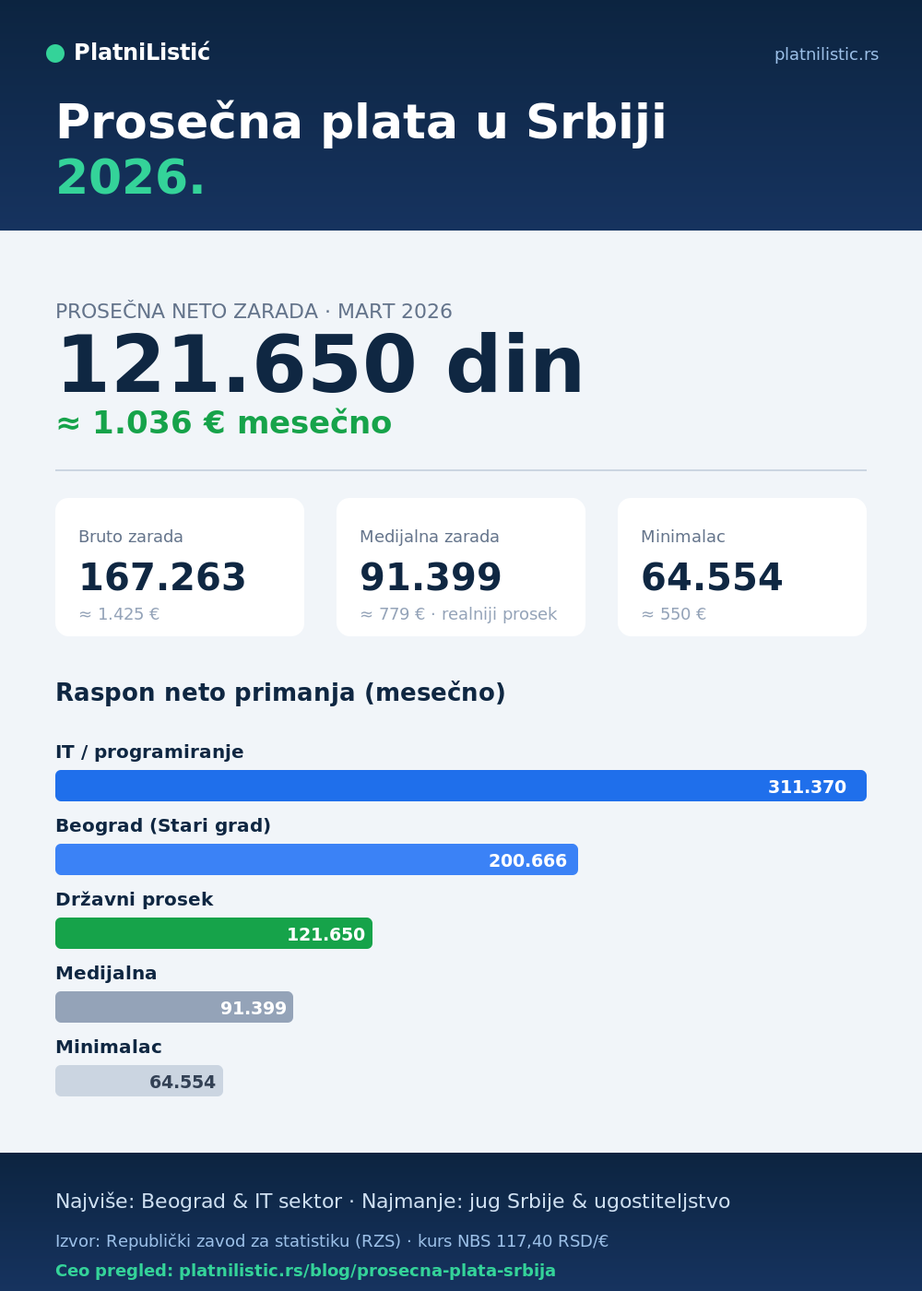
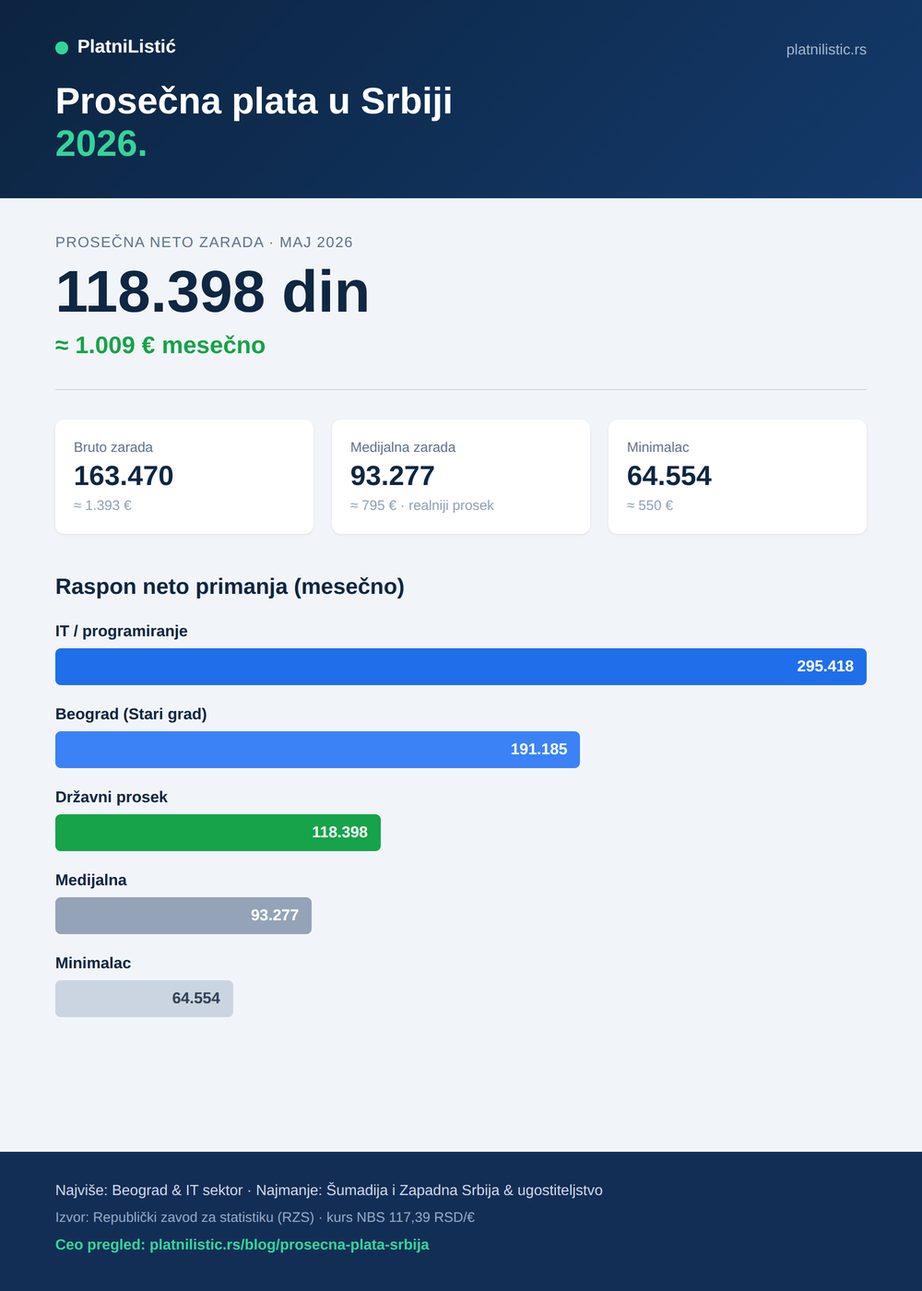
data: refresh RZS average salary to May 2026 (neto 118.398)
RZS saopštenje objavljeno 24.7.2026: neto 121.805→118.398, bruto
168.008→163.470, medijalna 94.585→93.277, kurs 117.40→117.39. Add
`objavljeno` field (used in ProsecnaZaradaPage static copy) and cascade
the numbers through prosecna-plata, otpremnina, jubilarna and the
regenerated prosecna-plata media assets. Post `updated` dates → 4 avgust.

Changed region(s): [[0.0, 0.0307, 1.0, 0.86], [0.062, 0.9214, 0.775, 1.0], [0.713, 0.0, 1.0, 0.0921]]

diff --git a/src/posts/prosecna-plata-srbija.js b/src/posts/prosecna-plata-srbija.js
@@ -1,28 +1,28 @@
 // Body + FAQ for "prosecna-plata-srbija". Split out of posts.js so a reader
 // downloads only the article they open — see loadPostBody() in Blog.jsx.
 export const body = `
-![Prosečna plata u Srbiji, mart 2026 — neto 121.650 dinara (≈1.036 €), bruto 167.263, medijalna (februar) 91.399, IT 311.370, minimalac 64.554. Najnoviji podatak za april 2026. dat je u tekstu.](/media/prosecna-plata-2026.png)
+![Prosečna plata u Srbiji, maj 2026 — neto 118.398 dinara (≈1.009 €), bruto 163.470, medijalna 93.277, IT 295.418, minimalac 64.554.](/media/prosecna-plata-2026.png)
 
-> **Provereno i ažurirano: 8. jul 2026.** Iznosi su usklađeni sa zvaničnim saopštenjima Republičkog zavoda za statistiku (RZS). Statistika se objavljuje oko 55 dana po isteku meseca, pa je najsvežiji zvaničan podatak za april 2026 (objavljen 25. juna). Konverzija u evre po srednjem kursu NBS (1 € = 117,40 din).
+> **Provereno i ažurirano: 4. avgust 2026.** Iznosi su usklađeni sa zvaničnim saopštenjima Republičkog zavoda za statistiku (RZS). Statistika se objavljuje oko 55 dana po isteku meseca, pa je najsvežiji zvaničan podatak za maj 2026 (objavljen 24. jula). Konverzija u evre po srednjem kursu NBS (1 € = 117,39 din).
 
-Prosečna plata u Srbiji iznosi **121.805 dinara neto (≈ 1.038 €)**, odnosno **168.008 dinara bruto** — najnoviji zvaničan podatak RZS-a, za april 2026. Medijalna neto zarada je **94.585 dinara**: polovina zaposlenih prima manje od tog iznosa, pa medijalna plata bolje opisuje „tipičnu" zaradu od proseka. U nastavku: pregled po mesecima, sektorima i gradovima, u dinarima i evrima.
+Prosečna plata u Srbiji iznosi **118.398 dinara neto (≈ 1.009 €)**, odnosno **163.470 dinara bruto** — najnoviji zvaničan podatak RZS-a, za maj 2026. Medijalna neto zarada je **93.277 dinara**: polovina zaposlenih prima manje od tog iznosa, pa medijalna plata bolje opisuje „tipičnu" zaradu od proseka. Neto zarada je u odnosu na april niža za 3.407 din — uobičajena mesečna varijacija, ne trend. U nastavku: pregled po mesecima, sektorima i gradovima, u dinarima i evrima.
 
 > **Napomena:** Ovaj tekst je informativnog karaktera. Zvaničan izvor svih iznosa je Republički zavod za statistiku; podaci se menjaju svakog meseca.
 
-## Ključne brojke (april 2026, RZS)
+## Ključne brojke (maj 2026, RZS)
 
-- **Prosečna neto zarada:** 121.805 din ≈ 1.038 €
-- **Prosečna bruto zarada:** 168.008 din ≈ 1.431 €
-- **Medijalna neto zarada:** 94.585 din ≈ 806 €
-- **Najviše — IT sektor:** ~311.370 din ≈ 2.652 €
-- **Najviše — Beograd (prosek):** 144.028 din ≈ 1.227 €
-- **Najmanje — jug Srbije:** ~90.705 din ≈ 772 €
+- **Prosečna neto zarada:** 118.398 din ≈ 1.009 €
+- **Prosečna bruto zarada:** 163.470 din ≈ 1.393 €
+- **Medijalna neto zarada:** 93.277 din ≈ 795 €
+- **Najviše — IT sektor:** ~295.418 din ≈ 2.517 €
+- **Najviše — Beograd (prosek):** 145.186 din ≈ 1.237 €
+- **Najmanje — opština Bojnik:** 81.731 din ≈ 696 € (regionalno najniže: Šumadija i Zapadna Srbija, 101.940 din)
 
 ## Prosečna plata po mesecima 2026
 
 Prosečna zarada varira iz meseca u mesec, zavisno od isplata bonusa, broja radnih dana i sezonskih kretanja. Trend je tokom poslednjih meseci jasno uzlazan:
 
-![Kretanje prosečne neto zarade u Srbiji od avgusta 2025. (105.590 din) do marta 2026. (121.650 din).](/media/prosecna-neto-zarada-kretanje-2026.svg)
+![Kretanje prosečne neto zarade u Srbiji po mesecima 2026 — januar 118.429, februar 116.127, mart 121.650, april 121.805, maj 118.398 din.](/media/prosecna-neto-zarada-kretanje-2026.svg)
 
 | Mesec 2026. | Bruto zarada | Neto zarada | Medijalna neto |
 |---|---|---|---|
@@ -30,61 +30,65 @@ Prosečna zarada varira iz meseca u mesec, zavisno od isplata bonusa, broja radn
 | Februar | 160.067 din | 116.127 din | 91.399 din |
 | Mart | 167.263 din | 121.650 din | — |
 | April | 168.008 din | 121.805 din | 94.585 din |
+| Maj | 163.470 din | 118.398 din | 93.277 din |
 
-U periodu januar–april 2026, u odnosu na isti period prethodne godine, prosečna neto zarada nominalno je veća za **11,6%**, a realno (nakon inflacije) za **8,6%** — plate i dalje rastu brže od cena. Kompletna [tabela prosečnih zarada po mesecima](/prosecna-zarada) sa zvaničnim podacima RZS-a dostupna je na posebnoj stranici. Razliku između bruto i neto iznosa objašnjavamo u vodiču [bruto-neto razlika](/blog/bruto-neto-razlika), a sastav doprinosa u tekstu [doprinosi u Srbiji](/blog/doprinosi-srbija).
+U periodu januar–maj 2026, u odnosu na isti period prethodne godine, prosečna neto zarada nominalno je veća za **11,3%**, a realno (nakon inflacije) za **8,2%** — plate i dalje rastu brže od cena. Kompletna [tabela prosečnih zarada po mesecima](/prosecna-zarada) sa zvaničnim podacima RZS-a dostupna je na posebnoj stranici. Razliku između bruto i neto iznosa objašnjavamo u vodiču [bruto-neto razlika](/blog/bruto-neto-razlika), a sastav doprinosa u tekstu [doprinosi u Srbiji](/blog/doprinosi-srbija).
 
 ## Medijalna plata u Srbiji 2026
 
-**Medijalna neto plata u Srbiji za april 2026. iznosi 94.585 din (≈ 806 €)** — polovina zaposlenih zarađuje manje od tog iznosa, a polovina više. Prosečnu platu „naviše vuku" visoke zarade malog broja ljudi (rukovodioci, IT), pa **medijalna zarada** realnije opisuje tipičnu platu: iznos koji deli zaposlene na dve jednake polovine. Drugim rečima, tipičan zaposleni u Srbiji zarađuje oko **27.000 din manje** od „prosečne" plate od 121.805 din.
+**Medijalna neto plata u Srbiji za maj 2026. iznosi 93.277 din (≈ 795 €)** — polovina zaposlenih zarađuje manje od tog iznosa, a polovina više. Prosečnu platu „naviše vuku" visoke zarade malog broja ljudi (rukovodioci, IT), pa **medijalna zarada** realnije opisuje tipičnu platu: iznos koji deli zaposlene na dve jednake polovine. Drugim rečima, tipičan zaposleni u Srbiji zarađuje oko **25.100 din manje** od „prosečne" plate od 118.398 din.
 
 ## Prosečna plata u Beogradu 2026
 
-**Prosečna neto plata u Beogradu za 2026. iznosi oko 144.028 din (≈ 1.227 €)** — osetno iznad državnog proseka. U najbogatijim beogradskim opštinama (Stari grad 200.666 din, Vračar 192.878 din, Savski venac, Novi Beograd) prelazi 190.000 din neto. Detaljan pregled po opštinama i regionima je u tabeli niže.
+**Prosečna neto plata u Beogradu za maj 2026. iznosi oko 145.186 din (≈ 1.237 €)** — osetno iznad državnog proseka. Najbogatija opština je Stari grad sa 191.185 din neto; deset beogradskih opština premašuje državni prosek (uključujući Voždovac, Vračar i Zvezdaru). Detaljan pregled po opštinama i regionima je u tabeli niže.
 
 ## Prosečna plata po sektorima
 
 Razlike među granama su ogromne — najplaćeniji i najmanje plaćeni sektor deli više od 170.000 din mesečno:
 
-![Raspon neto primanja u Srbiji — IT 311.370, Beograd Stari grad 200.666, državni prosek (mart 2026) 121.650, medijalna (februar 2026) 91.399, minimalac 64.554 din.](/media/raspon-neto-primanja-srbija-2026.svg)
+![Raspon neto primanja u Srbiji — IT 295.418, Beograd Stari grad 191.185, državni prosek (maj 2026) 118.398, medijalna 93.277, minimalac 64.554 din.](/media/raspon-neto-primanja-srbija-2026.svg)
 
-| Sektor | Prosečna neto zarada (2026.) |
+| Sektor | Prosečna neto zarada (maj 2026.) |
 |---|---|
-| Računarsko programiranje i IT usluge | ~311.370 din (najviša) |
+| Računarsko programiranje i IT usluge | ~295.418 din (najviša) |
+| Vazdušni saobraćaj | ~265.257 din |
+| Naučnoistraživački rad | ~220.046 din |
 | Finansije i osiguranje | iznad proseka |
-| Snabdevanje energijom (struja, gas) | iznad proseka |
 | Rudarstvo | ~116.000 din |
 | Trgovina | oko proseka / ispod |
-| Ugostiteljstvo (hoteli i restorani) | najniža (3× manje od IT-a) |
+| Ugostiteljstvo (hoteli i restorani) | najniža (2,5× manje od IT-a) |
 
-Najviše zarađuje **informaciono-komunikacioni sektor** — prosečna neto plata u računarskom programiranju premašuje 311.000 din, više od tri puta iznad državnog proseka. Na dnu su ugostiteljstvo, tekstilna industrija i delovi trgovine.
+Najviše zarađuje **informaciono-komunikacioni sektor** — prosečna neto plata u računarskom programiranju iznosi 295.418 din, više od 2,5 puta iznad državnog proseka. Odmah iza su vazdušni saobraćaj i naučnoistraživački rad. Na dnu su ugostiteljstvo, tekstilna industrija i delovi trgovine.
 
 ## Prosečna plata po gradovima i regionima
 
 Geografske razlike su jednako velike:
 
-![Prosečna neto plata po gradovima 2026 — Stari grad 200.666, Vračar 192.878, Beogradski region 144.028, državni prosek (mart 2026) 121.650, Šumadija i Zapadna Srbija 90.705 din.](/media/prosecna-plata-po-gradovima-2026.svg)
+![Prosečna neto plata po gradovima, maj 2026 — Stari grad 191.185, Beogradski region 145.186, državni prosek 118.398, Vojvodina 111.671, Šumadija i Zapadna Srbija 101.940 din.](/media/prosecna-plata-po-gradovima-2026.svg)
 
-| Region / opština | Bruto zarada | Neto zarada |
-|---|---|---|
-| Stari grad (Beograd) | 271.497 din | 200.666 din |
-| Vračar (Beograd) | 262.492 din | 192.878 din |
-| Beogradski region | 198.080 din | 144.028 din |
-| Novi Sad (Južnobačka) | 181.542 din | — |
-| Šumadija i Zapadna Srbija | — | ~90.705 din (najniža) |
+| Region / opština | Neto zarada (maj 2026.) |
+|---|---|
+| Stari grad (Beograd) | 191.185 din |
+| Beogradski region | 145.186 din |
+| Državni prosek | 118.398 din |
+| Vojvodina | 111.671 din |
+| Južna i istočna Srbija | 104.764 din |
+| Šumadija i Zapadna Srbija | 101.940 din (regionalno najniža) |
+| Opština Bojnik | 81.731 din (opštinski najniža u zemlji) |
 
-**Beograd ubedljivo prednjači** — prosečna neto plata je oko 144.000 din, a u najbogatijim opštinama (Stari grad, Vračar, Savski venac, Novi Beograd) prelazi 190.000 din neto. Najniže zarade su na jugu zemlje (Jablanička, Pčinjska i Toplička oblast).
+**Beograd ubedljivo prednjači** — prosečna neto plata je oko 145.000 din, a najbogatija opština, Stari grad, ima 191.185 din neto. Regionalno su najniže zarade u Šumadiji i Zapadnoj Srbiji, ali pojedinačno najniže plaćena opština u zemlji je Bojnik (81.731 din), uz Preševo i Vlasotinac koji takođe ne prelaze 85.000 din.
 
 ## Prosečna plata u evrima
 
-Po srednjem kursu NBS od **117,40 din za 1 €**, ključni iznosi su:
+Po srednjem kursu NBS od **117,39 din za 1 €**, ključni iznosi su:
 
 | Pokazatelj (neto, mesečno) | Dinari | Evri |
 |---|---|---|
-| Prosečna bruto zarada | 168.008 | ≈ 1.431 € |
-| Prosečna neto zarada | 121.805 | ≈ 1.038 € |
-| Medijalna neto zarada | 94.585 | ≈ 806 € |
-| Beograd (prosek, neto) | 144.028 | ≈ 1.227 € |
-| IT sektor (neto) | 311.370 | ≈ 2.652 € |
+| Prosečna bruto zarada | 163.470 | ≈ 1.393 € |
+| Prosečna neto zarada | 118.398 | ≈ 1.009 € |
+| Medijalna neto zarada | 93.277 | ≈ 795 € |
+| Beograd (prosek, neto) | 145.186 | ≈ 1.237 € |
+| IT sektor (neto) | 295.418 | ≈ 2.517 € |
 | Minimalac (neto) | 64.554 | ≈ 550 € |
 
 Kurs dinara prema evru kreće se u uskom rasponu (oko 117 din/€), pa se iznosi u evrima menjaju malo iz meseca u mesec.
@@ -103,7 +107,7 @@ Neto zarada prati isti trend i čini približno 72% bruto iznosa.
 
 ## Prosečna plata vs. minimalac i penzija
 
-Minimalna zarada u 2026. iznosi 371 din neto po radnom času, odnosno oko **64.554 din (≈ 550 €)** mesečno za prosečan fond sati — detaljnije u vodiču [minimalna zarada 2026](/minimalna-zarada-2026). Minimalac je tako oko **68% medijalne** i tek oko **53% prosečne** neto zarade. Raspon primanja je izuzetno širok — od zakonskog minimuma do IT plata pet puta većih.
+Minimalna zarada u 2026. iznosi 371 din neto po radnom času, odnosno oko **64.554 din (≈ 550 €)** mesečno za prosečan fond sati — detaljnije u vodiču [minimalna zarada 2026](/minimalna-zarada-2026). Minimalac je tako oko **69% medijalne** i tek oko **55% prosečne** neto zarade. Raspon primanja je izuzetno širok — od zakonskog minimuma do IT plata skoro pet puta većih.
 
 ## Kako se prosečna plata obračunava
 
@@ -113,24 +117,23 @@ RZS prosečnu zaradu računa na osnovu poreske prijave PPP-PD koju podnose svi p
 
 Cela slika prosečne plate u Srbiji 2026. na jednom mestu — slobodno sačuvajte ili podelite infografiku (uz link ka izvoru):
 
-![Infografika: prosečna plata u Srbiji, mart 2026 — neto 121.650 din (≈1.036 €), bruto 167.263, medijalna (februar) 91.399, minimalac 64.554 i raspon neto primanja od minimalca do IT sektora. Izvor: RZS.](/media/infografik-prosecna-plata-2026.png)
+![Infografika: prosečna plata u Srbiji, maj 2026 — neto 118.398 din (≈1.009 €), bruto 163.470, medijalna 93.277, minimalac 64.554 i raspon neto primanja od minimalca do IT sektora. Izvor: RZS.](/media/infografik-prosecna-plata-2026.png)
 
 ## Izvori i korisni linkovi
 
 - [RZS — Zarade](https://www.stat.gov.rs/sr-latn/oblasti/trziste-rada/zarade)
-- [RZS — Saopštenje o zaradama (januar 2026)](https://www.stat.gov.rs/sr-latn/vesti/statisticalrelease/?p=17829)
 - [Prosečna mesečna zarada (Paragraf)](https://www.paragraf.rs/statistika/prosecna_mesecna_zarada_po_zaposlenom_u_republici_srbiji.html)
 - [Narodna banka Srbije — kursna lista](https://www.nbs.rs/sr/scripts/kursnalista/)
     `;
 
 export const faq = [
-  { q: "Kolika je prosečna plata u Srbiji 2026?", a: "Prosečna neto plata za april 2026. iznosi 121.805 dinara (oko 1.038 evra), a bruto 168.008 dinara, prema podacima RZS-a. Tokom prvih meseci 2026. neto prosek se kretao između 116.000 i 122.000 dinara." },
-  { q: "Kolika je prosečna plata u Srbiji u evrima?", a: "Po srednjem kursu NBS (117,40 dinara za 1 evro), prosečna neto plata od 121.805 dinara iznosi približno 1.038 evra mesečno, a bruto zarada oko 1.431 evro." },
-  { q: "Kolika je prosečna bruto zarada 2026?", a: "Prosečna bruto zarada u Srbiji za april 2026. iznosi 168.008 dinara (oko 1.431 evro), prema RZS-u. Bruto zarada je iznos pre poreza i doprinosa; neto (na ruke) je 121.805 dinara." },
-  { q: "Kolika je medijalna plata u Srbiji?", a: "Medijalna neto zarada za april 2026. iznosi 94.585 dinara (oko 806 evra). To znači da polovina zaposlenih zarađuje manje od tog iznosa, pa je medijalna plata realnija slika od proseka." },
-  { q: "Kolika je prosečna plata u Beogradu 2026?", a: "Prosečna neto plata u Beogradu za 2026. iznosi oko 144.028 dinara (≈ 1.227 evra) — iznad državnog proseka. U opštinama Stari grad i Vračar prelazi 190.000 dinara neto." },
-  { q: "Da li većina ljudi zarađuje prosečnu platu?", a: "Ne. Većina zaposlenih zarađuje ispod proseka. Tipičnu zaradu bolje opisuje medijalna plata (oko 94.500 dinara) nego prosek (oko 122.000 dinara), jer prosek podižu visoke plate u IT-u i menadžmentu." },
-  { q: "Koji sektor ima najveću platu u Srbiji?", a: "Najviše zarađuje IT sektor — prosečna neto plata u računarskom programiranju premašuje 311.000 dinara, više od tri puta iznad državnog proseka. Najmanje se zarađuje u ugostiteljstvu." },
-  { q: "Koji grad ima najveću prosečnu platu?", a: "Beograd, sa prosečnom neto zaradom od oko 144.000 dinara. Najviše plate su u opštinama Stari grad i Vračar, preko 190.000 dinara neto." },
+  { q: "Kolika je prosečna plata u Srbiji 2026?", a: "Prosečna neto plata za maj 2026. iznosi 118.398 dinara (oko 1.009 evra), a bruto 163.470 dinara, prema podacima RZS-a. Tokom prvih pet meseci 2026. neto prosek se kretao između 116.000 i 122.000 dinara." },
+  { q: "Kolika je prosečna plata u Srbiji u evrima?", a: "Po srednjem kursu NBS (117,39 dinara za 1 evro), prosečna neto plata od 118.398 dinara iznosi približno 1.009 evra mesečno, a bruto zarada oko 1.393 evra." },
+  { q: "Kolika je prosečna bruto zarada 2026?", a: "Prosečna bruto zarada u Srbiji za maj 2026. iznosi 163.470 dinara (oko 1.393 evra), prema RZS-u. Bruto zarada je iznos pre poreza i doprinosa; neto (na ruke) je 118.398 dinara." },
+  { q: "Kolika je medijalna plata u Srbiji?", a: "Medijalna neto zarada za maj 2026. iznosi 93.277 dinara (oko 795 evra). To znači da polovina zaposlenih zarađuje manje od tog iznosa, pa je medijalna plata realnija slika od proseka." },
+  { q: "Kolika je prosečna plata u Beogradu 2026?", a: "Prosečna neto plata u Beogradu za maj 2026. iznosi oko 145.186 dinara (≈ 1.237 evra) — iznad državnog proseka. Najbogatija opština, Stari grad, ima 191.185 dinara neto." },
+  { q: "Da li većina ljudi zarađuje prosečnu platu?", a: "Ne. Većina zaposlenih zarađuje ispod proseka. Tipičnu zaradu bolje opisuje medijalna plata (oko 93.300 dinara) nego prosek (oko 118.400 dinara), jer prosek podižu visoke plate u IT-u i menadžmentu." },
+  { q: "Koji sektor ima najveću platu u Srbiji?", a: "Najviše zarađuje IT sektor — prosečna neto plata u računarskom programiranju iznosi 295.418 dinara, više od 2,5 puta iznad državnog proseka. Najmanje se zarađuje u ugostiteljstvu." },
+  { q: "Koji grad ima najveću prosečnu platu?", a: "Beograd, sa prosečnom neto zaradom od oko 145.000 dinara. Najbogatija opština je Stari grad, sa 191.185 dinara neto." },
   { q: "Da li je prosečna plata bruto ili neto?", a: "Statistika objavljuje oba iznosa. Na ruke se dobija neto plata, dok je bruto iznos pre poreza i doprinosa." },
 ];

diff --git a/src/posts/porodiljsko-odsustvo.js b/src/posts/porodiljsko-odsustvo.js
@@ -3,11 +3,11 @@
 export const body = `
 ![Porodiljsko odsustvo 2026 — naknada zarade, obračun i isplata](https://images.unsplash.com/photo-1555252333-9f8e92e65df9?w=800&fm=webp&q=70)
 
-> **Provereno i ažurirano: jul 2026.** Pravila su usklađena sa važećim **Zakonom o finansijskoj podršci porodici sa decom** (čl. 12–20, sa izmenama iz novembra 2024) i **Zakonom o radu** (čl. 94–100). Iznosi vezani za prosečnu zaradu računati su prema poslednjem podatku RZS-a (april 2026: 168.008 RSD bruto / 121.805 RSD neto), a minimalna zarada prema ceni radnog časa od 371 RSD za 2026.
+> **Provereno i ažurirano: 4. avgust 2026.** Pravila su usklađena sa važećim **Zakonom o finansijskoj podršci porodici sa decom** (čl. 12–20, sa izmenama iz novembra 2024) i **Zakonom o radu** (čl. 94–100). Iznosi vezani za prosečnu zaradu računati su prema poslednjem podatku RZS-a (maj 2026: 163.470 RSD bruto / 118.398 RSD neto), a minimalna zarada prema ceni radnog časa od 371 RSD za 2026.
 
 Porodiljsko odsustvo je pravo zaposlene žene (a u posebnim slučajevima i oca) na plaćeno odsustvo povodom rođenja deteta. Naknadu ne isplaćuje poslodavac, već država — direktno na račun porodilje. U ovom vodiču je tačan obračun naknade po pravilima koja važe u 2026, sa primerima u dinarima, minimumom i maksimumom, i posebnim delom za preduzetnice i paušalke.
 
-**Ukratko:** naknada zarade = zbir osnovica na koje su plaćeni doprinosi u **18 meseci** pre odsustva ÷ 18. Mesečna osnovica ne može biti veća od **5 prosečnih zarada** (≈ 840.040 RSD bruto za prava koja počinju sredinom 2026). Tokom **prva 3 meseca** (porodiljsko odsustvo) pun mesečni iznos ne može biti manji od **minimalne zarade**; tokom nege deteta (od 4. do 12. meseca) taj minimum ne važi.
+**Ukratko:** naknada zarade = zbir osnovica na koje su plaćeni doprinosi u **18 meseci** pre odsustva ÷ 18. Mesečna osnovica ne može biti veća od **5 prosečnih zarada** (≈ 817.350 RSD bruto za prava koja počinju sredinom 2026). Tokom **prva 3 meseca** (porodiljsko odsustvo) pun mesečni iznos ne može biti manji od **minimalne zarade**; tokom nege deteta (od 4. do 12. meseca) taj minimum ne važi.
 
 > **Napomena:** Tekst je informativnog karaktera i ne zamenjuje pravni savet. Pri izmeni propisa tekst se hitno usklađuje.
 
@@ -55,7 +55,7 @@ Ovo je detalj koji mnogi vodiči preskaču: **zakonski minimalac važi samo za v
 ## Minimalna i maksimalna naknada u 2026
 
 - **Minimum (prva 3 meseca):** minimalna cena rada na dan početka prava × 184 sata, uvećano za poreze i doprinose. Za 2026: 371 RSD × 184 = **68.264 RSD neto** (≈ 92.499 RSD bruto). Više o minimalcu: [minimalna zarada 2026](/minimalna-zarada-2026).
-- **Maksimum:** mesečna osnovica ne može biti veća od **5 prosečnih mesečnih zarada** u RS prema poslednjem objavljenom RZS podatku na dan početka prava. Sa prosekom za april 2026 (168.008 RSD bruto) to je **840.040 RSD bruto** mesečne osnovice. Do 2022. limit je bio 3 prosečne zarade — podatak „tri prosečne" koji se još sreće po tekstovima je zastareo.
+- **Maksimum:** mesečna osnovica ne može biti veća od **5 prosečnih mesečnih zarada** u RS prema poslednjem objavljenom RZS podatku na dan početka prava. Sa prosekom za maj 2026 (163.470 RSD bruto) to je **817.350 RSD bruto** mesečne osnovice. Do 2022. limit je bio 3 prosečne zarade — podatak „tri prosečne" koji se još sreće po tekstovima je zastareo.
 
 ## Kako i kada se isplaćuje naknada
 
@@ -96,7 +96,7 @@ Zahtev za naknadu zarade podnosi se **nadležnom organu jedinice lokalne samoupr
 export const faq = [
   { q: "Koliko traje porodiljsko odsustvo u 2026?", a: "Ukupno 365 dana za prvo i drugo dete — porodiljsko odsustvo (od 28–45 dana pre termina do 3 meseca posle porođaja) plus odsustvo radi nege deteta do godinu dana. Za treće i svako naredno dete ukupno traje 2 godine." },
   { q: "Kako se računa naknada za porodiljsko odsustvo?", a: "Saberu se osnovice na koje su plaćeni doprinosi za poslednjih 18 meseci pre odsustva i podele sa 18 — i kada je rađeno kraće od 18 meseci. Dobijena mesečna osnovica je bruto iznos; na račun stiže neto, kao kod zarade." },
-  { q: "Kolika je maksimalna naknada za porodiljsko u 2026?", a: "Mesečna osnovica ne može biti veća od 5 prosečnih zarada u Srbiji prema poslednjem RZS podatku na dan početka prava — sa prosekom za april 2026 (168.008 RSD bruto) to je 840.040 RSD bruto. Limit od 3 prosečne zarade ne važi od 2022." },
+  { q: "Kolika je maksimalna naknada za porodiljsko u 2026?", a: "Mesečna osnovica ne može biti veća od 5 prosečnih zarada u Srbiji prema poslednjem RZS podatku na dan početka prava — sa prosekom za maj 2026 (163.470 RSD bruto) to je 817.350 RSD bruto. Limit od 3 prosečne zarade ne važi od 2022." },
   { q: "Kolika je minimalna naknada za porodiljsko?", a: "Tokom porodiljskog odsustva (prva 3 meseca) pun mesečni iznos ne može biti manji od minimalne zarade obračunate na 184 sata — za 2026. oko 68.264 RSD neto. Tokom odsustva radi nege deteta (od 4. meseca) taj minimum ne važi." },
   { q: "Ko isplaćuje porodiljsko i kada?", a: "Ministarstvo nadležno za finansijsku podršku porodici sa decom, iz budžeta RS, direktno na tekući račun korisnice — po pravilu oko 20. u mesecu. Poslodavac ne isplaćuje naknadu za porodiljsko odsustvo." },
   { q: "Da li otac može da koristi porodiljsko odsustvo?", a: "Odsustvo radi nege deteta (posle prva 3 meseca) roditelji mogu koristiti po dogovoru. Samo porodiljsko odsustvo otac koristi izuzetno — ako majka nije živa, napustila je dete ili je objektivno sprečena da brine o njemu." },

diff --git a/src/posts/jubilarna-nagrada.js b/src/posts/jubilarna-nagrada.js
@@ -3,7 +3,7 @@
 export const body = `
 ![Jubilarna nagrada za godine staža](https://images.unsplash.com/photo-1559526324-4b87b5e36e44?w=800&q=80)
 
-> **Provereno i ažurirano: jul 2026.** Neoporezivi iznos od **28.912 RSD** važi za isplate od 1.2.2026. do 31.1.2027. („Sl. glasnik RS" 6/2026, ZPDG čl. 18 tač. 9). Poreski tretman proveren uz Zakon o radu (čl. 105 st. 3, čl. 120 tač. 1) i Zakon o porezu na dohodak građana. Prosečna bruto zarada: 168.008 RSD (RZS, april 2026).
+> **Provereno i ažurirano: 4. avgust 2026.** Neoporezivi iznos od **28.912 RSD** važi za isplate od 1.2.2026. do 31.1.2027. („Sl. glasnik RS" 6/2026, ZPDG čl. 18 tač. 9). Poreski tretman proveren uz Zakon o radu (čl. 105 st. 3, čl. 120 tač. 1) i Zakon o porezu na dohodak građana. Prosečna bruto zarada: 163.470 RSD (RZS, maj 2026).
 
 **Jubilarna nagrada** je jednokratna isplata zaposlenom povodom navršenih „okruglih" godina rada kod istog poslodavca. Poreski je povlašćena — ali drugačije nego što većina tekstova na internetu tvrdi: neoporeziv je fiksan godišnji iznos, a na ostatak se plaća samo porez, bez doprinosa.
 
@@ -28,14 +28,14 @@ Druga stvar koju vodiči često pogreše: deo iznad neoporezivog iznosa **ne ter
 
 ## Koliko iznosi jubilarna nagrada za 10, 20, 30 i 40 godina?
 
-Visinu određuje kolektivni ugovor ili ugovor o radu kod vašeg poslodavca. Uobičajena praksa, uz prosečnu bruto zaradu od 168.008 RSD (RZS, april 2026):
+Visinu određuje kolektivni ugovor ili ugovor o radu kod vašeg poslodavca. Uobičajena praksa, uz prosečnu bruto zaradu od 163.470 RSD (RZS, maj 2026):
 
 | Jubilej | Uobičajena visina isplate | Neoporezivo (fiksno) |
 |---|---|---|
-| 10 godina rada | 1× prosek ≈ 168.008 RSD | 28.912 RSD |
-| 20 godina rada | 2× prosek ≈ 336.016 RSD | 28.912 RSD |
-| 30 godina rada | 2,5× prosek ≈ 420.020 RSD | 28.912 RSD |
-| 40 godina rada | 3× prosek ≈ 504.024 RSD | 28.912 RSD |
+| 10 godina rada | 1× prosek ≈ 163.470 RSD | 28.912 RSD |
+| 20 godina rada | 2× prosek ≈ 326.940 RSD | 28.912 RSD |
+| 30 godina rada | 2,5× prosek ≈ 408.675 RSD | 28.912 RSD |
+| 40 godina rada | 3× prosek ≈ 490.410 RSD | 28.912 RSD |
 
 Kod privatnih poslodavaca visina može biti bilo koja — od simbolične do više prosečnih zarada; presudan je akt koji je poslodavac doneo ili potpisao. Kako se kreće prosečna zarada koja služi kao orijentir, pratite u pregledu [prosečne plate u Srbiji](/blog/prosecna-plata-srbija).
 
@@ -101,9 +101,9 @@ Pogledajte i kako se obračunava [otpremnina pri penzionisanju](/blog/otpremnina
 
 export const faq = [
   { q: "Koliki je neoporezivi iznos jubilarne nagrade u 2026?", a: "28.912 RSD godišnje, za isplate od 1. februara 2026. do 31. januara 2027. (ZPDG čl. 18 tač. 9, „Sl. glasnik RS” 6/2026). Iznos je fiksan — isti za sve jubileje i ne zavisi od prosečne zarade." },
-  { q: "Koliko iznosi jubilarna nagrada za 20 godina?", a: "Visinu određuje kolektivni ugovor ili ugovor o radu; uobičajeno je dve prosečne bruto zarade — uz prosek od 168.008 RSD oko 336.016 RSD. Od toga je neoporezivo 28.912 RSD, a na ostatak se plaća samo porez od 10%, bez doprinosa." },
-  { q: "Koliko iznosi jubilarna nagrada za 10 godina?", a: "Uobičajeno jedna prosečna bruto zarada u RS — oko 168.008 RSD — ali visina zavisi isključivo od kolektivnog ugovora ili ugovora o radu kod poslodavca." },
-  { q: "Koliko iznosi jubilarna nagrada za 30 i 40 godina staža?", a: "Uobičajeno 2,5 prosečne zarade za 30 godina (≈ 420.020 RSD) i 3 prosečne za 40 godina (≈ 504.024 RSD). To je visina isplate iz kolektivnih ugovora, a ne poreski limit — neoporezivo je uvek 28.912 RSD." },
+  { q: "Koliko iznosi jubilarna nagrada za 20 godina?", a: "Visinu određuje kolektivni ugovor ili ugovor o radu; uobičajeno je dve prosečne bruto zarade — uz prosek od 163.470 RSD oko 326.940 RSD. Od toga je neoporezivo 28.912 RSD, a na ostatak se plaća samo porez od 10%, bez doprinosa." },
+  { q: "Koliko iznosi jubilarna nagrada za 10 godina?", a: "Uobičajeno jedna prosečna bruto zarada u RS — oko 163.470 RSD — ali visina zavisi isključivo od kolektivnog ugovora ili ugovora o radu kod poslodavca." },
+  { q: "Koliko iznosi jubilarna nagrada za 30 i 40 godina staža?", a: "Uobičajeno 2,5 prosečne zarade za 30 godina (≈ 408.675 RSD) i 3 prosečne za 40 godina (≈ 490.410 RSD). To je visina isplate iz kolektivnih ugovora, a ne poreski limit — neoporezivo je uvek 28.912 RSD." },
   { q: "Da li se na jubilarnu nagradu plaćaju doprinosi?", a: "Ne. Jubilarna nagrada nema karakter zarade (čl. 105 st. 3 Zakona o radu), pa se doprinosi ne plaćaju ni na jedan deo. Na deo iznad 28.912 RSD plaća se samo porez na zarade od 10%." },
   { q: "Kako izgleda primer obračuna jubilarne nagrade?", a: "Poslodavac za 20 godina staža isplaćuje 300.000 RSD: neoporezivo je 28.912 RSD, oporezivi deo je 271.088 RSD, porez 10% iznosi 27.109 RSD, doprinosa nema — zaposleni na račun prima 272.891 RSD." },
 ];

diff --git a/src/pages.jsx b/src/pages.jsx
@@ -529,7 +529,7 @@ export function OtpremninaPage() {
       { q: "Kolika je minimalna otpremnina za tehnološki višak?", a: "Najmanje 1/3 prosečne zarade zaposlenog po godini staža kod tog poslodavca, u skladu sa čl. 158 Zakona o radu." },
       { q: "Da li je otpremnina oporeziva?", a: "Deo otpremnine do propisanog neoporezivog iznosa je oslobođen poreza. Iznos koji premašuje taj prag oporezuje se kao dohodak." },
       { q: "Koja je razlika između otpremnine za tehnološki višak i za odlazak u penziju?", a: "Za tehnološki višak minimum je 1/3 prosečne zarade po godini staža; za odlazak u penziju minimum iznosi dve prosečne zarade u Republici Srbiji." },
-      { q: "Kako radi kalkulator otpremnine za penziju?", a: "Kalkulator otpremnine za penziju množi prosečnu zaradu u Republici Srbiji (ne ličnu zaradu zaposlenog) sa dva — to je zakonski minimum po čl. 119 Zakona o radu. Uz prosečnu neto zaradu od 121.805 RSD (RZS), minimalna otpremnina za penziju je 121.805 × 2 = 243.610 RSD." },
+      { q: "Kako radi kalkulator otpremnine za penziju?", a: "Kalkulator otpremnine za penziju množi prosečnu zaradu u Republici Srbiji (ne ličnu zaradu zaposlenog) sa dva — to je zakonski minimum po čl. 119 Zakona o radu. Uz prosečnu neto zaradu od 118.398 RSD (RZS, maj 2026), minimalna otpremnina za penziju je 118.398 × 2 = 236.796 RSD." },
       { q: "Da li se u staž za otpremninu računa rad kod prethodnog poslodavca?", a: "Ne. Otpremnina za tehnološki višak obračunava se isključivo na osnovu godina staža koje je zaposleni proveo kod poslodavca koji vrši otkaz, a ne na osnovu ukupnog radnog staža zaposlenog." },
     ],
     related: OTPREMNINA_RELATED,
@@ -937,7 +937,7 @@ export function ProsecnaZaradaPage() {
       <p>Podaci su za {p.mesec} (RZS). Medijalna zarada (polovina zaposlenih zarađuje manje) realnije opisuje tipičnu platu od proseka. Detaljan pregled po sektorima i gradovima: <a href="/blog/prosecna-plata-srbija">prosečna plata u Srbiji 2026</a>.</p>
 
       <h2>Kako i kada RZS objavljuje podatak o prosečnoj zaradi</h2>
-      <p>Republički zavod za statistiku (RZS) objavljuje podatak o prosečnoj mesečnoj zaradi u redovnom mesečnom statističkom saopštenju, sa uobičajenim zaostatkom od oko dva meseca — podatak za {p.mesec} objavljen je krajem juna 2026. Zaostatak postoji zato što je za obračun proseka potrebno prikupiti i obraditi izveštaje o isplaćenim zaradama od velikog broja poslodavaca u zemlji, pa je reč o konačnom, a ne procenjenom broju. Zbog ovog zaostatka, iznos koji važi „danas" u praksi je uvek podatak za jedan od prethodnih meseci — to je i razlog zašto se u zakonskim obračunima (otpremnina, jubilarna nagrada, cenzus) izričito koristi formulacija „poslednji objavljeni podatak", a ne podatak za tekući mesec, koji u trenutku obračuna još nije objavljen.</p>
+      <p>Republički zavod za statistiku (RZS) objavljuje podatak o prosečnoj mesečnoj zaradi u redovnom mesečnom statističkom saopštenju, sa uobičajenim zaostatkom od oko 55 dana po isteku meseca — podatak za {p.mesec} objavljen je {p.objavljeno}. Zaostatak postoji zato što je za obračun proseka potrebno prikupiti i obraditi izveštaje o isplaćenim zaradama od velikog broja poslodavaca u zemlji, pa je reč o konačnom, a ne procenjenom broju. Zbog ovog zaostatka, iznos koji važi „danas" u praksi je uvek podatak za jedan od prethodnih meseci — to je i razlog zašto se u zakonskim obračunima (otpremnina, jubilarna nagrada, cenzus) izričito koristi formulacija „poslednji objavljeni podatak", a ne podatak za tekući mesec, koji u trenutku obračuna još nije objavljen.</p>
 
       <h2>Prosečna zarada i minimalac</h2>
       <p>Poređenje sa minimalnom zaradom pokazuje raspon zarada u Srbiji. Prosečna neto zarada od {p.neto.toLocaleString("sr-RS")} RSD je oko {(p.neto / min.netoMesecno).toLocaleString("sr-RS", { maximumFractionDigits: 1 })} puta veća od reprezentativnog neto iznosa minimalne zarade od {min.netoMesecno.toLocaleString("sr-RS")} RSD (za prosečan fond od 174 radna časa). Ipak, budući da je medijalna zarada ({p.medijalnaNeto.toLocaleString("sr-RS")} RSD) znatno bliža minimalcu nego prosečnoj zaradi, veliki broj zaposlenih u Srbiji prima platu koja je bliža minimalnoj nego prosečnoj zaradi — što je dodatna potvrda da prosek precenjuje tipičnu platu. Detalji o minimalnoj zaradi: <a href="/minimalna-zarada-2026">minimalna zarada 2026</a>.</p>

diff --git a/src/posts.js b/src/posts.js
@@ -53,6 +53,7 @@ export const POSTS = [
   {
     id: "porodiljsko-odsustvo",
     date: "11. jul 2026",
+    updated: "4. avgust 2026",
     tag: "Zakon o radu",
     title: "Porodiljsko odsustvo 2026 — naknada, obračun i isplata",
     summary: "Porodiljsko odsustvo 2026: naknada je prosek osnovica za 18 meseci, najviše 5 prosečnih zarada, tokom prva 3 meseca najmanje minimalac. Obračun sa primerima.",
@@ -61,7 +62,7 @@ export const POSTS = [
   {
     id: "otkaz-ugovora-o-radu",
     date: "25. jun 2026",
-    updated: "13. jul 2026",
+    updated: "4. avgust 2026",
     tag: "Zakon o radu",
     title: "Otkaz ugovora o radu 2026 — razlozi, postupak i otpremnina",
     summary: "Otkaz ugovora o radu 2026: razlozi za otkaz po Zakonu o radu, otkazni rok (8–30 dana), otpremnina za tehnološki višak i prava zaposlenog. Obračun sa primerom.",
@@ -70,10 +71,10 @@ export const POSTS = [
   {
     id: "prosecna-plata-srbija",
     date: "19. jun 2026",
-    updated: "8. jul 2026",
+    updated: "4. avgust 2026",
     tag: "Zarada",
-    title: "Prosečna plata u Srbiji 2026: 121.805 din (1.038 €), april",
-    summary: "Prosečna neto plata u Srbiji za april 2026. je 121.805 din (≈1.038 €), bruto 168.008, medijalna 94.585 (RZS). Pregled po mesecima, sektorima i gradovima.",
+    title: "Prosečna plata u Srbiji 2026: 118.398 din (1.009 €), maj",
+    summary: "Prosečna neto plata u Srbiji za maj 2026. je 118.398 din (≈1.009 €), bruto 163.470, medijalna 93.277 (RZS). Pregled po mesecima, sektorima i gradovima.",
     ogImage: "https://www.platnilistic.rs/media/prosecna-plata-2026.png",
     hasFaq: true,
   },
@@ -207,7 +208,7 @@ export const POSTS = [
   {
     id: "jubilarna-nagrada",
     date: "15. februar 2026",
-    updated: "13. jul 2026",
+    updated: "4. avgust 2026",
     tag: "Porez",
     title: "Jubilarna nagrada 2026 — iznos, porez i neoporezivih 28.912",
     summary: "Jubilarna nagrada 2026: visina je stvar kolektivnog ugovora (obično 1–3 prosečne zarade), neoporezivo je 28.912 RSD godišnje, a iznad se plaća samo porez 10% — bez doprinosa.",

diff --git a/src/posts/otkaz-ugovora-o-radu.js b/src/posts/otkaz-ugovora-o-radu.js
@@ -3,7 +3,7 @@
 export const body = `
 ![Otkaz ugovora o radu 2026 — razlozi, postupak i otpremnina](https://images.unsplash.com/photo-1521791136064-7986c2920216?w=800&fm=webp&q=70)
 
-> **Provereno i ažurirano: jul 2026.** Rokovi i pravila usklađeni su sa važećim **Zakonom o radu** („Sl. glasnik RS", sa izmenama). Iznosi otpremnine vezani za prosečnu zaradu računati su prema poslednjem zvaničnom podatku RZS-a (prosečna neto zarada za april 2026: 121.805 din).
+> **Provereno i ažurirano: 4. avgust 2026.** Rokovi i pravila usklađeni su sa važećim **Zakonom o radu** („Sl. glasnik RS", sa izmenama). Iznosi otpremnine vezani za prosečnu zaradu računati su prema poslednjem zvaničnom podatku RZS-a (prosečna neto zarada za maj 2026: 118.398 din).
 
 Otkaz ugovora o radu je prestanak radnog odnosa voljom jedne strane — poslodavca ili zaposlenog. Poslodavac može otkazati ugovor **samo iz zakonom propisanog razloga** i uz propisan postupak, dok zaposleni daje otkaz slobodno, uz otkazni rok. U ovom vodiču su tačni razlozi, rokovi, prava i obračun otpremnine — sa konkretnim brojčanim primerom.
 
@@ -68,7 +68,7 @@ Zaposleni proglašen tehnološkim viškom, sa **10 navršenih godina** rada kod 
 > Otpremnina = 1/3 × prosečna zarada × broj godina staža
 > Otpremnina = (1/3 × 90.000) × 10 = **300.000 dinara**
 
-Minimalna zakonska otpremnina je **300.000 dinara**; poslodavac sme isplatiti više, ali ne manje. **Primer za penziju:** uz poslednju prosečnu neto zaradu u Srbiji od 121.805 din ([prosečna plata u Srbiji](/blog/prosecna-plata-srbija)), minimalna otpremnina pri penzionisanju je 2 × 121.805 = **243.610 dinara**.
+Minimalna zakonska otpremnina je **300.000 dinara**; poslodavac sme isplatiti više, ali ne manje. **Primer za penziju:** uz poslednju prosečnu neto zaradu u Srbiji od 118.398 din ([prosečna plata u Srbiji](/blog/prosecna-plata-srbija)), minimalna otpremnina pri penzionisanju je 2 × 118.398 = **236.796 dinara**.
 
 ## Otkaz ugovora o radu od strane zaposlenog
 

diff --git a/src/rates.js b/src/rates.js
@@ -84,13 +84,16 @@ export const REFERENCE_DATA = {
     obrazac: "PP GPDG",
     izvor: "Poreska uprava — Poreski informator, april 2026",
   },
-  // Prosečna zarada — RZS, april 2026 (saopštenje 170/2026, objavljeno 25.6.2026).
+  // Prosečna zarada — RZS, maj 2026 (objavljeno 24.7.2026). Ažurirano 4.8.2026.
+  // NAPOMENA: `objavljeno` se koristi u statičnom tekstu na /prosecna-zarada (pages.jsx,
+  // ProsecnaZaradaPage) — ažurirati zajedno sa mesec/neto/bruto svakog refresh-a.
   prosecnaZarada2026: {
-    neto: 121805,
-    bruto: 168008,
-    medijalnaNeto: 94585,
-    mesec: "april 2026",
-    kursEur: 117.40,
+    neto: 118398,
+    bruto: 163470,
+    medijalnaNeto: 93277,
+    mesec: "maj 2026",
+    objavljeno: "24. jula 2026",
+    kursEur: 117.39,
     izvor: "RZS",
   },
   // Državni praznici i neradni dani u Srbiji za 2026.
